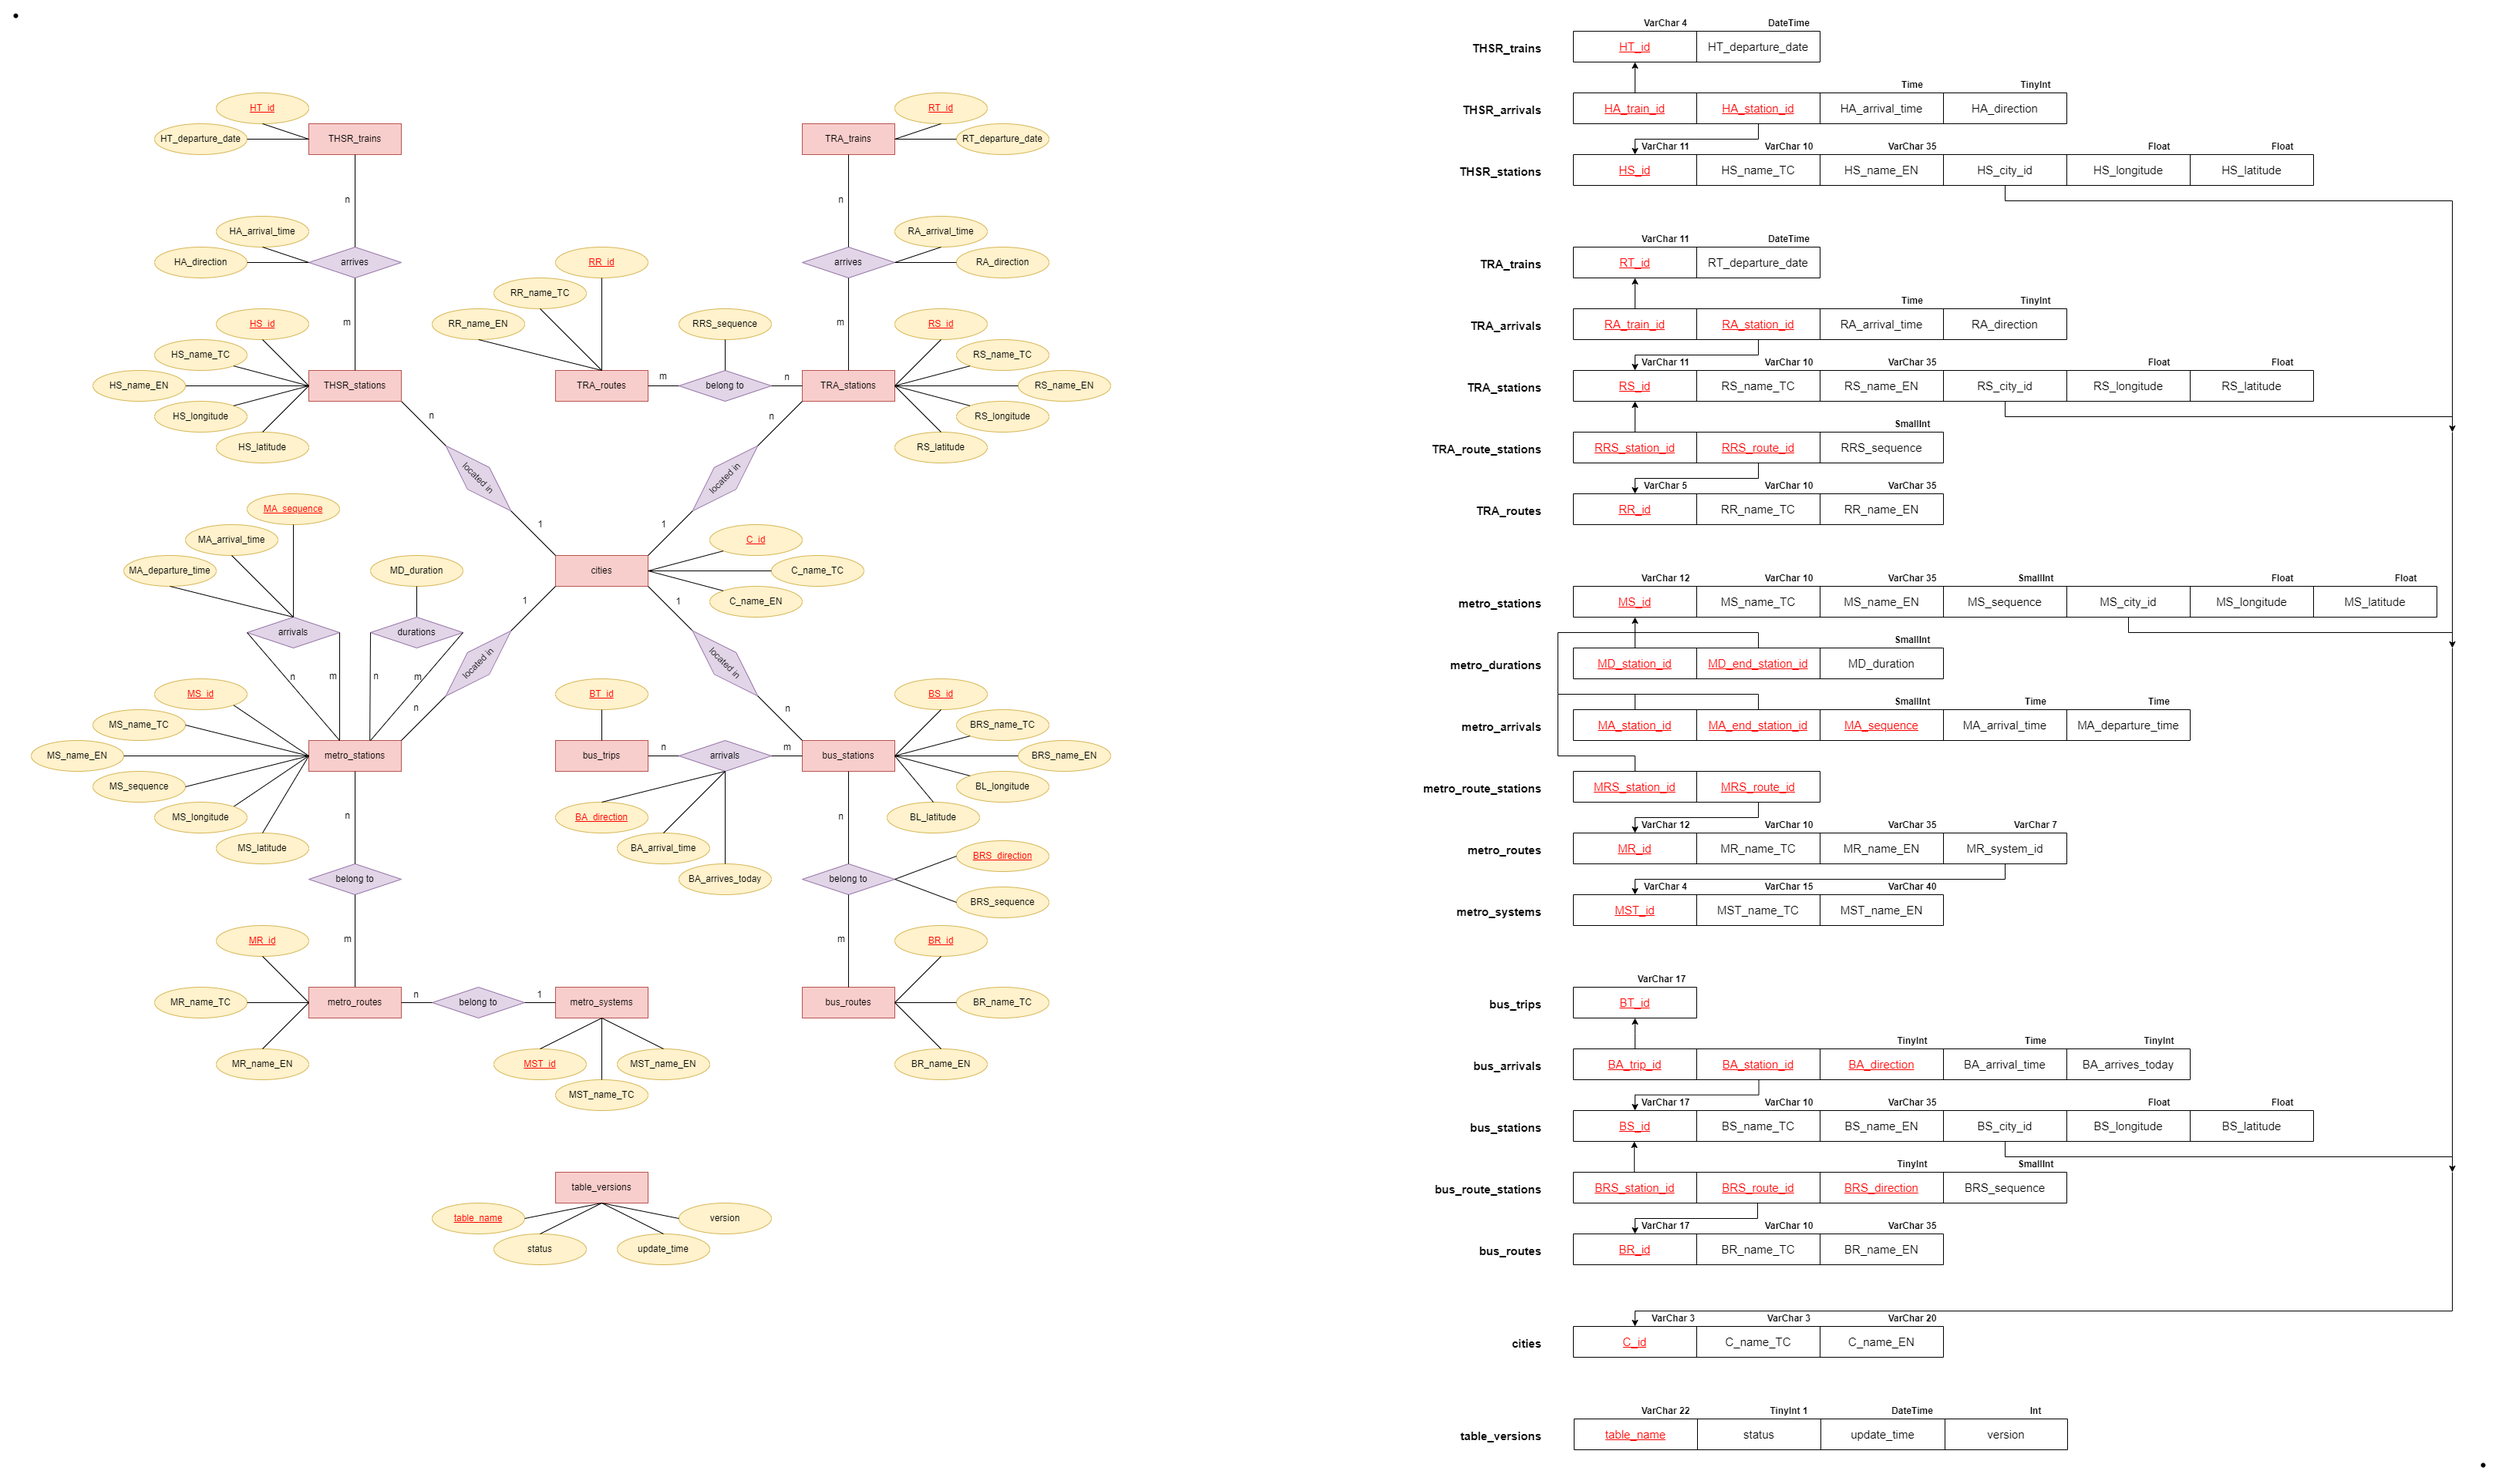
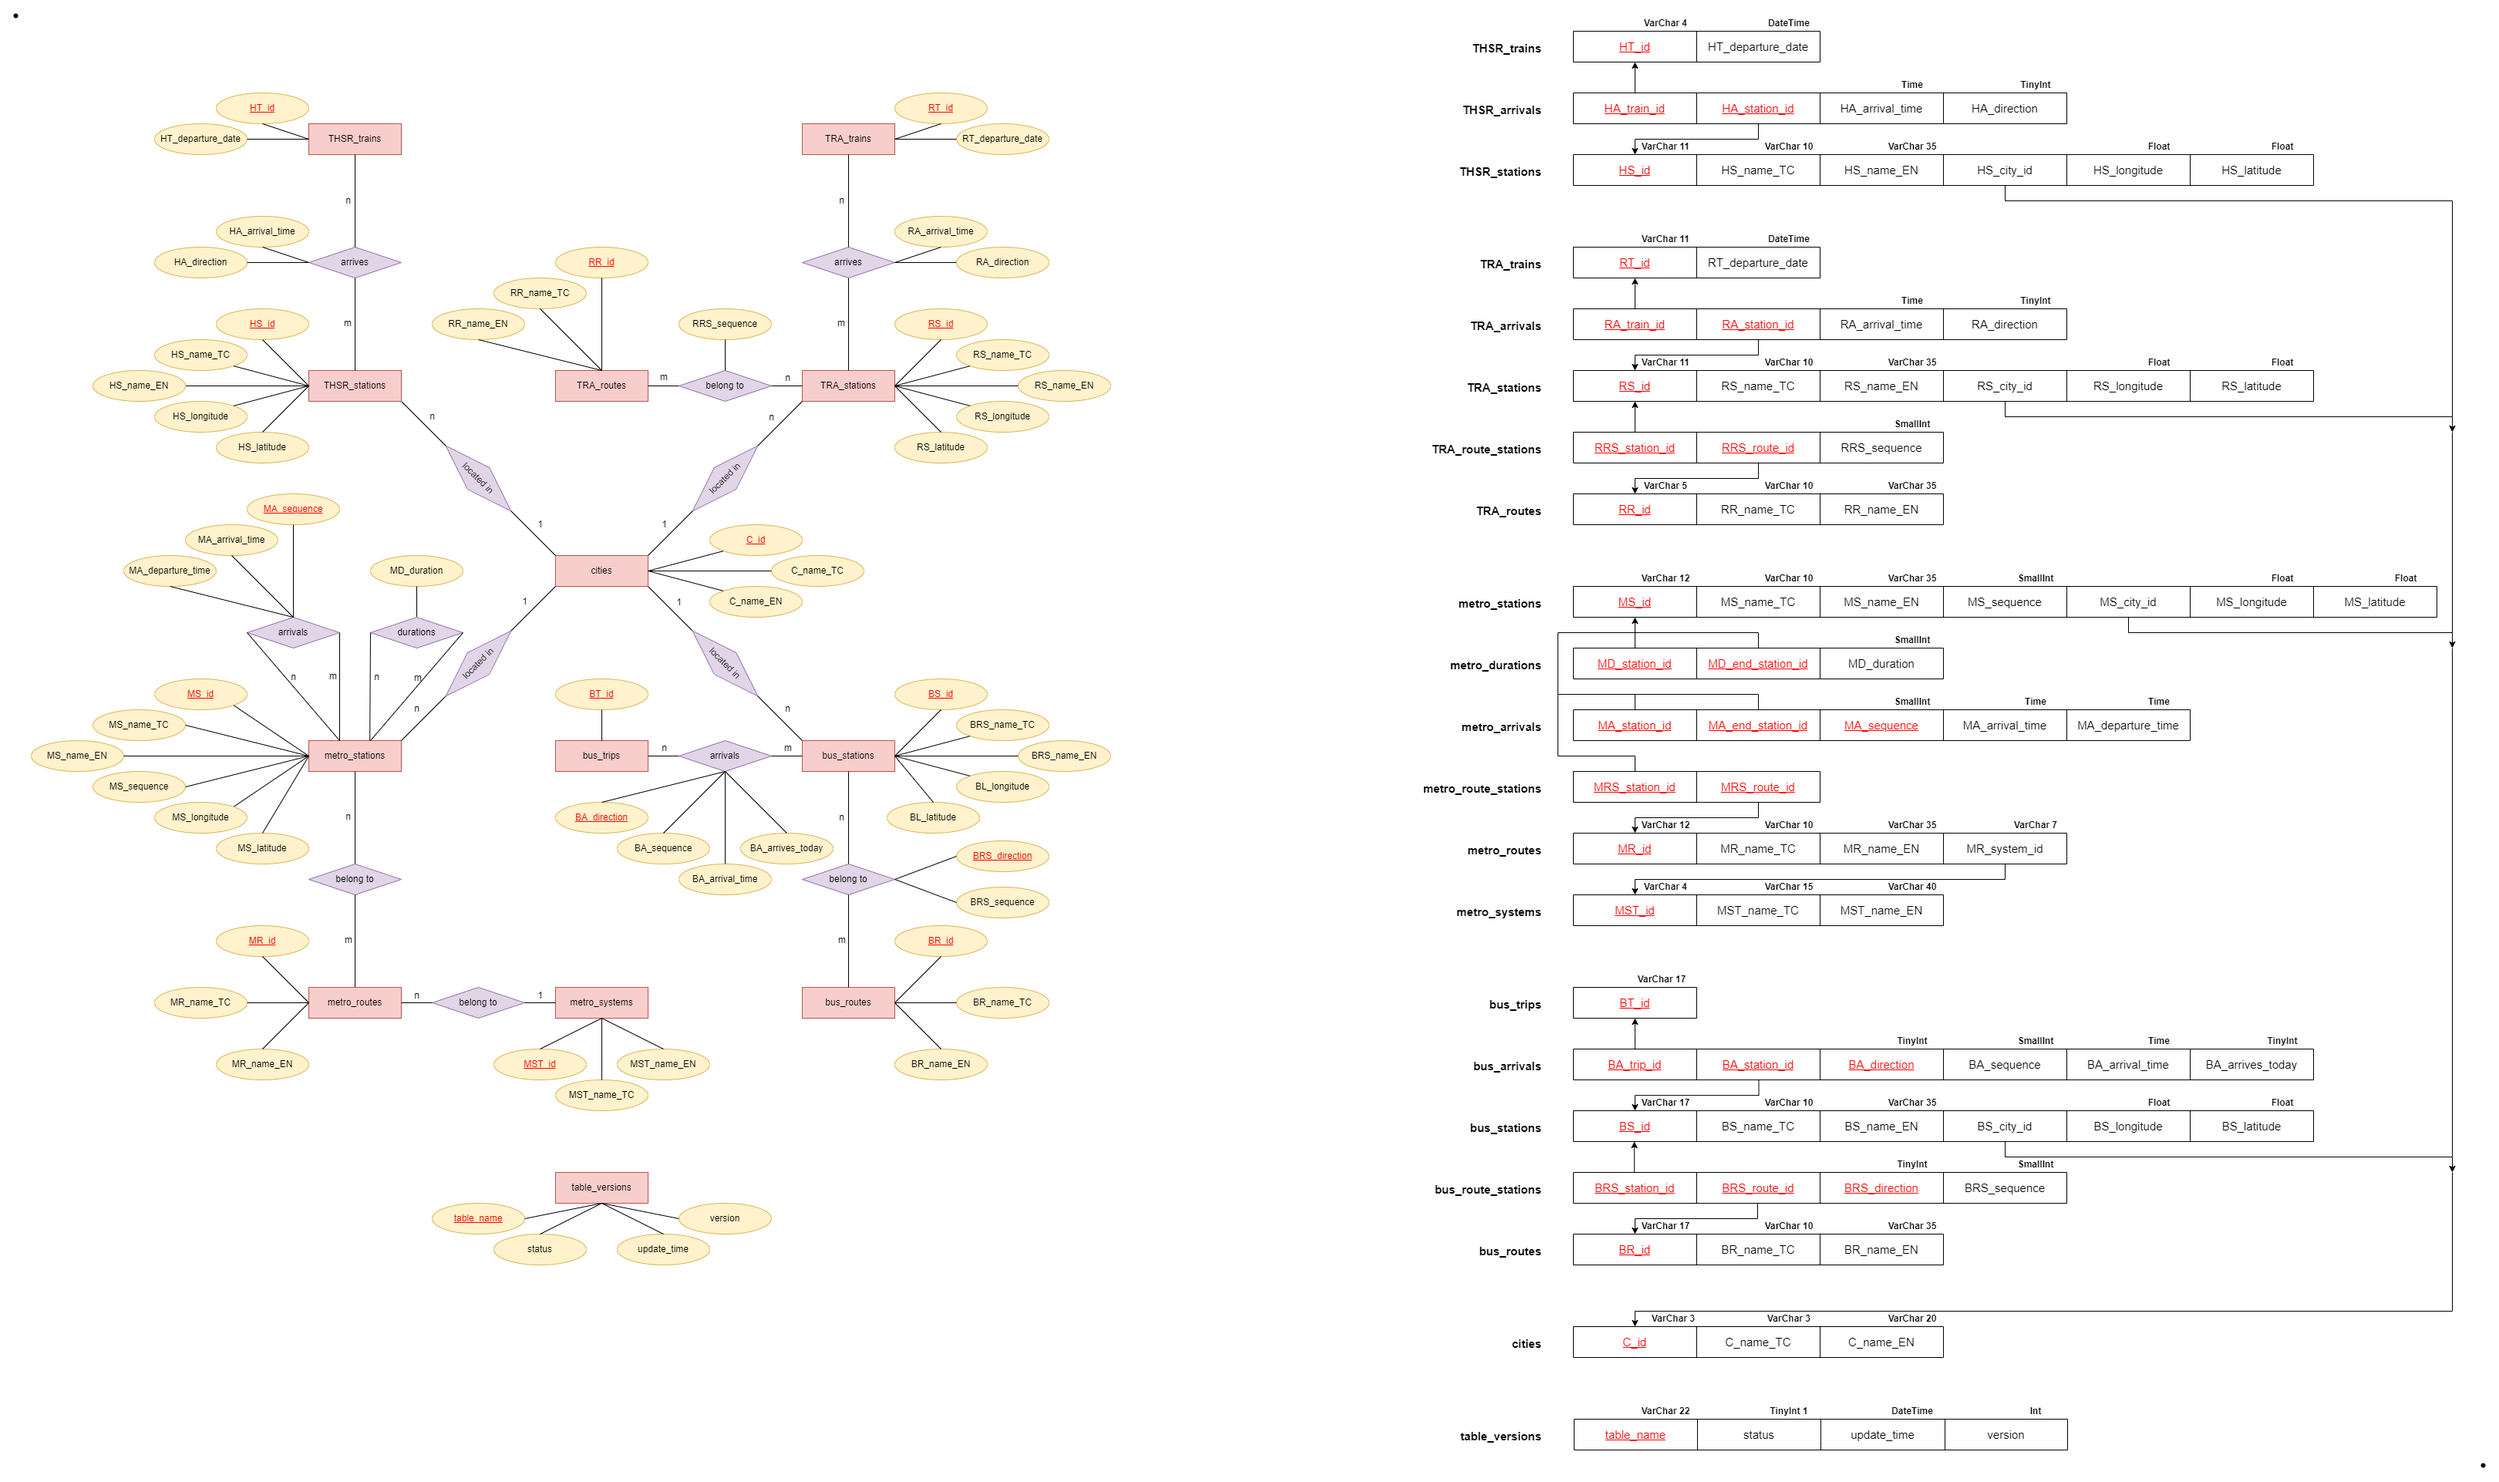
新增了 BA_sequence。

diff --git a/app/Database/Migrations/2022-10-01-140942_AddBASequence.php b/app/Database/Migrations/2022-10-01-140942_AddBASequence.php
@@ -1,0 +1,24 @@
+<?php
+
+namespace App\Database\Migrations;
+
+use CodeIgniter\Database\Migration;
+
+class AddBASequence extends Migration
+{
+    public function up()
+    {
+        $fields = [
+            "BA_sequence" => [
+                "type" => "SMALLINT",
+                "after" => "BA_direction"
+            ]
+        ];
+        $this->forge->addColumn("bus_arrivals", $fields);
+    }
+
+    public function down()
+    {
+        $this->forge->dropColumn("bus_arrivals", "BA_sequence");
+    }
+}
